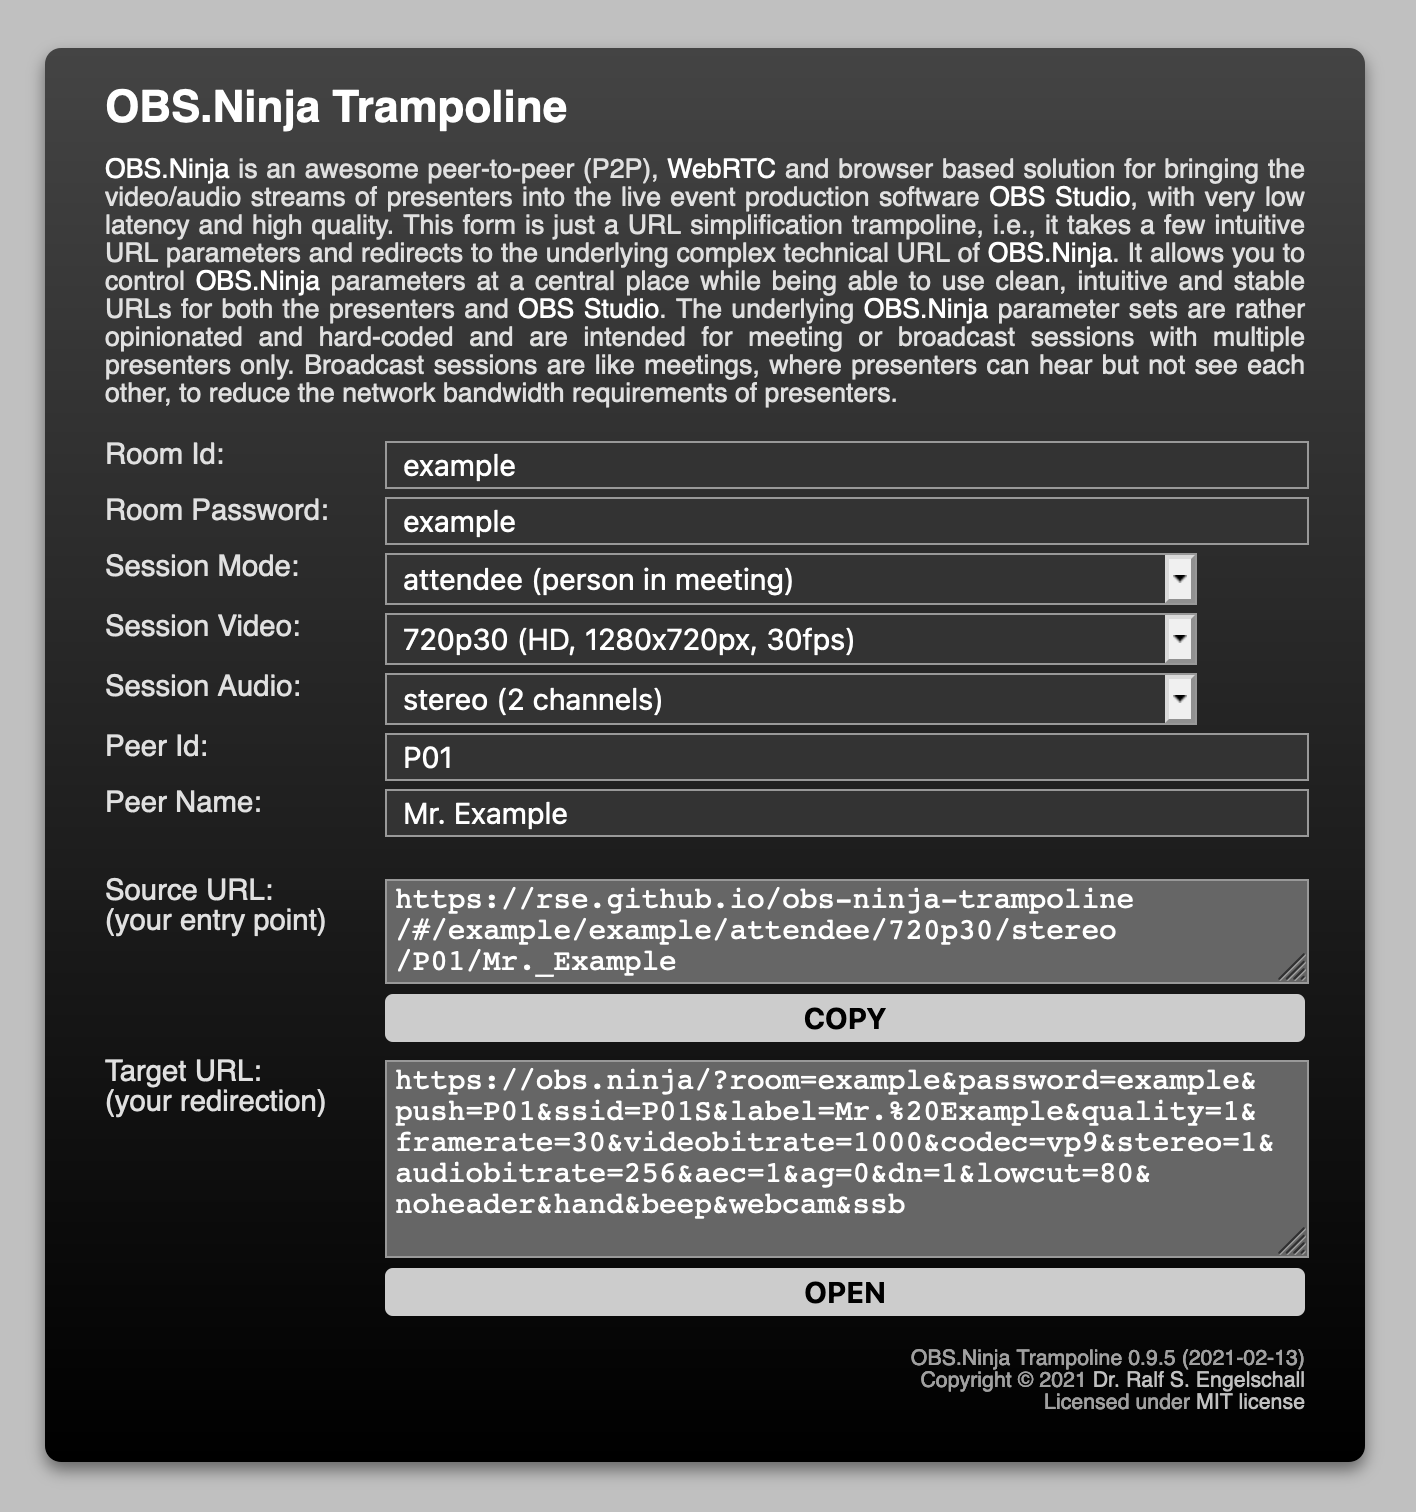
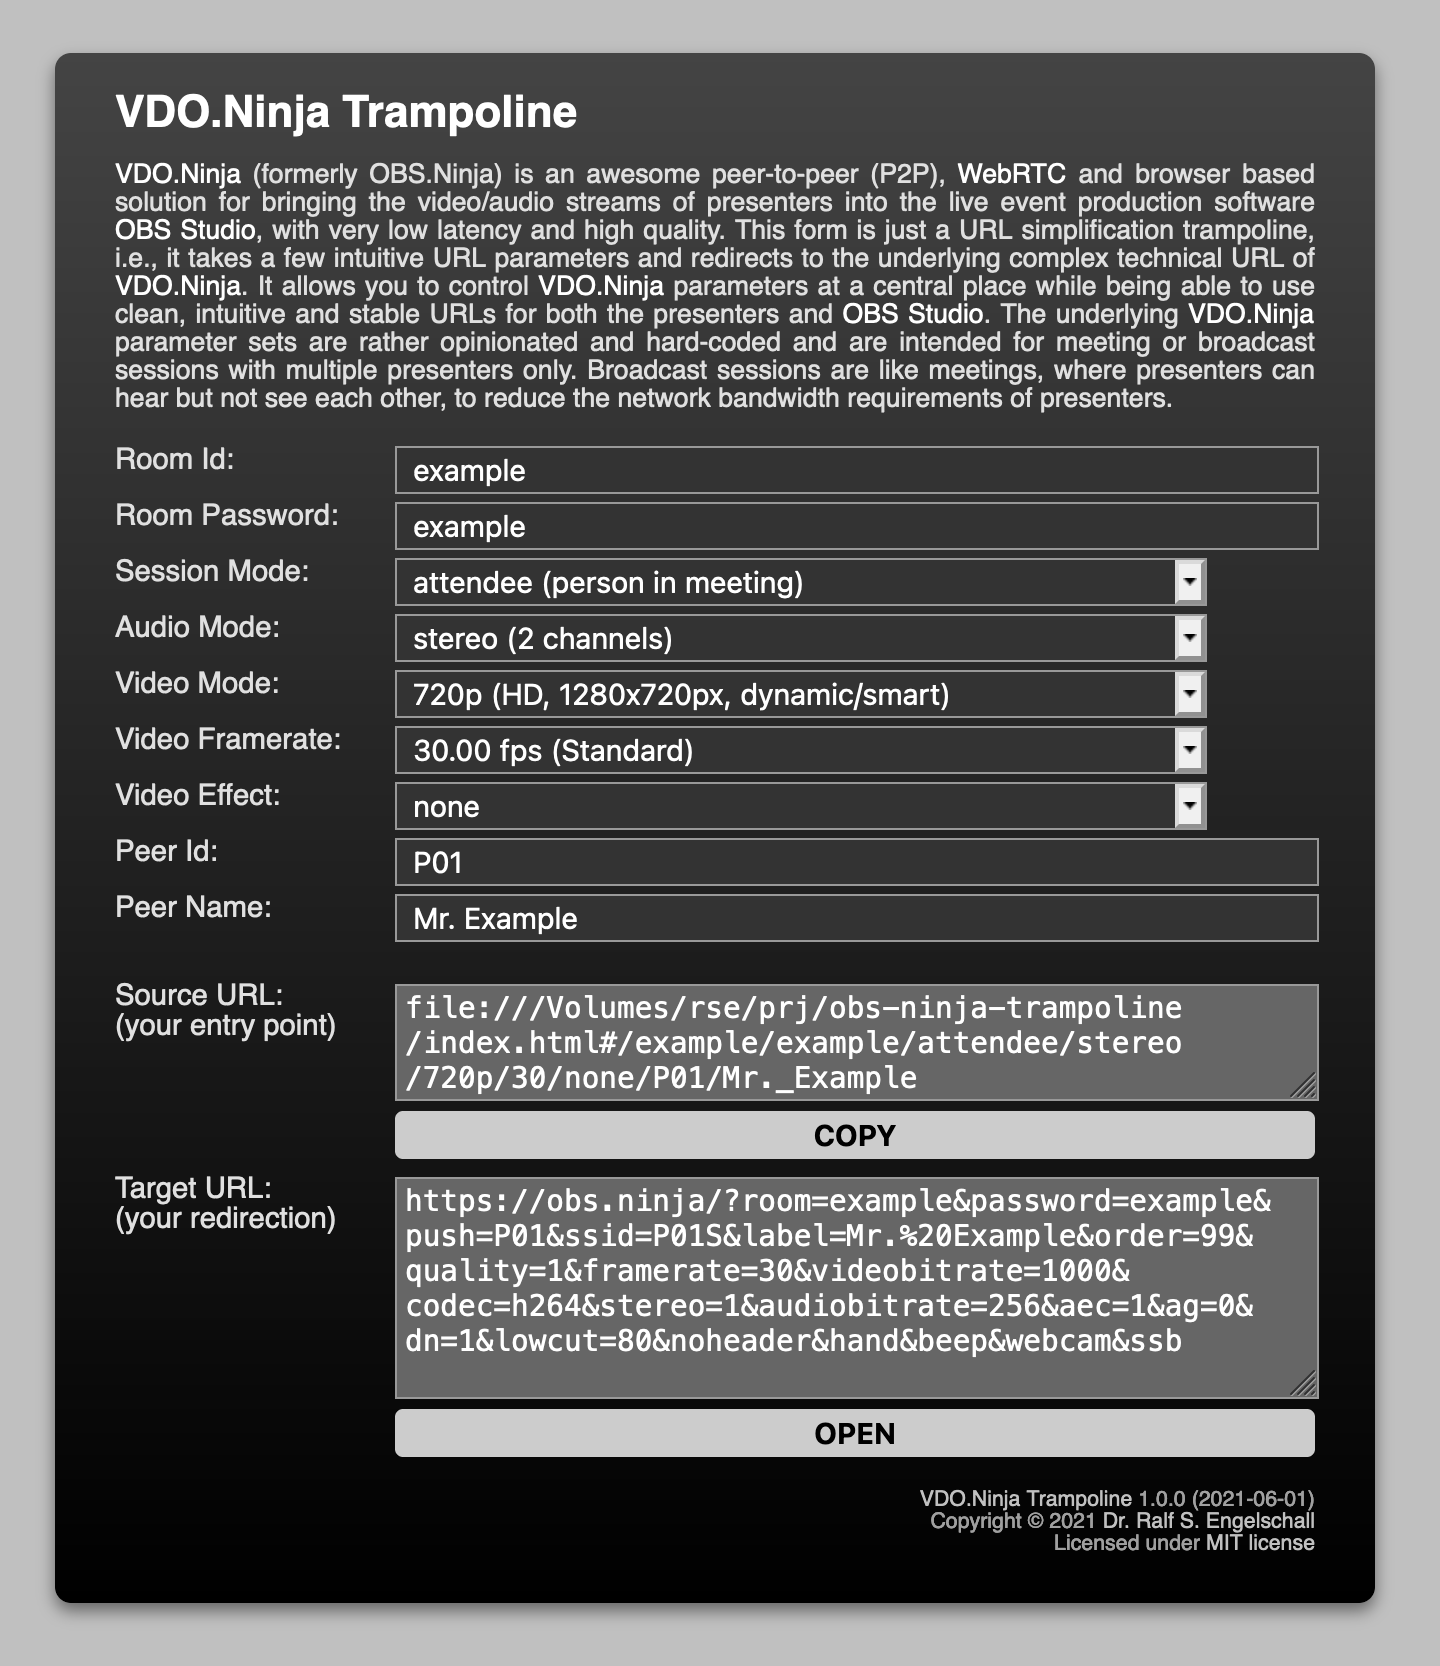
follow the VDO.Ninja rebranding

Changed region(s): [[0.0311, 0.0311, 0.9944, 0.9947]]

diff --git a/index.html b/index.html
@@ -1,14 +1,14 @@
 <!DOCTYPE html>
 <!--
 **
-**  OBS.Ninja Trampoline
+**  VDO.Ninja Trampoline
 **  Copyright (c) 2021 Dr. Ralf S. Engelschall <rse@engelschall.com>
 **  Licensed under MIT license <https://spdx.org/licenses/MIT.html>
 **
 -->
 <html>
     <head>
-        <title>OBS.Ninja Trampoline</title>
+        <title>VDO.Ninja Trampoline</title>
         <meta charset="UTF-8"/>
         <meta http-equiv="Cache-Control" content="no-cache, no-store, must-revalidate"/>
         <meta http-equiv="Pragma" content="no-cache">
@@ -157,24 +157,24 @@
         <div class="box">
             <!-- headline -->
             <div class="row">
-                <div class="title">OBS.Ninja Trampoline</div>
+                <div class="title">VDO.Ninja Trampoline</div>
             </div>
 
             <!-- description -->
             <div class="row">
                 <div class="desc">
-                    <a href="https://obs.ninja">OBS.Ninja</a> is an awesome peer-to-peer (P2P),
+                    <a href="https://obs.ninja">VDO.Ninja</a> (formerly OBS.Ninja) is an awesome peer-to-peer (P2P),
                     <a href="https://webrtc.org/">WebRTC</a> and browser based solution
                     for bringing the video/audio streams of presenters into the live event
                     production software <a href="https://obsproject.com">OBS Studio</a>,
                     with very low latency and high quality.
                     This form is just a URL simplification
                     trampoline, i.e., it takes a few intuitive URL parameters and redirects to the
-                    underlying complex technical URL of <a href="https://obs.ninja">OBS.Ninja</a>. It allows
-                    you to control <a href="https://obs.ninja">OBS.Ninja</a> parameters at a central
+                    underlying complex technical URL of <a href="https://obs.ninja">VDO.Ninja</a>. It allows
+                    you to control <a href="https://obs.ninja">VDO.Ninja</a> parameters at a central
                     place while being able to use clean, intuitive and stable URLs for both the
                     presenters and <a href="https://obsproject.com">OBS Studio</a>.
-                    The underlying <a href="https://obs.ninja">OBS.Ninja</a>
+                    The underlying <a href="https://obs.ninja">VDO.Ninja</a>
                     parameter sets are rather opinionated and hard-coded and are intended for
                     meeting or broadcast sessions with multiple presenters only. Broadcast sessions are
                     like meetings, where presenters can hear but not see each other,
@@ -310,7 +310,7 @@
             <!-- footer -->
             <div class="row">
                 <div class="foot">
-                    <a href="https://github.com/rse/obs-ninja-trampoline">OBS.Ninja Trampoline</a> 0.9.12 (2021-04-25)<br/>
+                    <a href="https://github.com/rse/vdo-ninja-trampoline">VDO.Ninja Trampoline</a> 1.0.0 (2021-06-01)<br/>
                     Copyright &copy; 2021 <a href="mailto:rse@engelschall.com">Dr. Ralf S. Engelschall</a><br/>
                     Licensed under <a href="https://spdx.org/licenses/MIT.html">MIT license</a>
                 </div>
@@ -322,11 +322,11 @@
         const isOBS    = !!window.obsstudio
         const isIOS    = !!window.navigator.userAgent.match(/(?:iPad|iPhone)/i)
         if (!(isChrome || isOBS || isIOS))
-            alert("ALERT: Sorry, Google Chrome or a Chromium-based browser is strongly recommended for OBS.Ninja. " +
+            alert("ALERT: Sorry, Google Chrome or a Chromium-based browser is strongly recommended for VDO.Ninja. " +
                 "Firefox, Safari or other browsers are not very well supported. " +
                 "Please start over with Google Chrome!")
         $(document).ready(() => {
-            /*  generate OBS.Ninja URL  */
+            /*  generate VDO.Ninja URL  */
             const makeURL = (room, pass, mode, audio, video, fps, effect, peer, name) => {
                 /*  determine audio quality  */
                 let st = 1

diff --git a/README.md b/README.md
@@ -1,11 +1,11 @@
 
-[OBS.Ninja Trampoline](https://rse.github.io/obs-ninja-trampoline/)
+[VDO.Ninja Trampoline](https://rse.github.io/vdo-ninja-trampoline/)
 ===================================================================
 
 About
 -----
 
-[OBS.Ninja](https://obs.ninja) is an awesome peer-to-peer (P2P),
+[VDO.Ninja](https://obs.ninja) is an awesome peer-to-peer (P2P),
 [WebRTC](https://webrtc.org/) and browser based solution for bringing
 the video/audio streams of presenters into the live event production
 software [OBS Studio](https://obsproject.com) with very low latency and
@@ -13,12 +13,12 @@ high quality.
 
 This form is just a URL simplification trampoline, i.e., it takes a
 few intuitive URL parameters and redirects to the underlying complex
-technical URL of [OBS.Ninja](https://obs.ninja). It allows you to
-control [OBS.Ninja](https://obs.ninja) parameters at a central place
+technical URL of [VDO.Ninja](https://obs.ninja). It allows you to
+control [VDO.Ninja](https://obs.ninja) parameters at a central place
 while being able to use clean, intuitive and stable URLs for both the
 presenters and [OBS Studio](https://obsproject.com).
 
-The underlying [OBS.Ninja](https://obs.ninja) parameter sets are rather
+The underlying [VDO.Ninja](https://obs.ninja) parameter sets are rather
 opinionated and hard-coded and are intended for meeting or broadcast
 sessions with multiple presenters only. Broadcast sessions are like
 meetings, where presenters can hear but not see each other, to reduce
@@ -27,22 +27,22 @@ the network bandwidth requirements of presenters.
 Sneak Preview
 -------------
 
-![OBS.Ninja Trampoline](screenshot.png)
+![VDO.Ninja Trampoline](screenshot.png)
 
 Usage
 -----
 
-Go to [OBS.Ninja Trampoline](https://rse.github.io/obs-ninja-trampoline/)
-(or your own website hosting OBS.Ninja Trampoline) and just use the form.
+Go to [VDO.Ninja Trampoline](https://rse.github.io/vdo-ninja-trampoline/)
+(or your own website hosting VDO.Ninja Trampoline) and just use the form.
 The form fields are:
 
 - **Room Id**:
   This is the room identifier, corresponding to the `room` parameter of
-  OBS.Ninja. It has to be globally unique.
+  VDO.Ninja. It has to be globally unique.
 
 - **Room Password**:
   This is the room password, corresponding to the `password` parameter of
-  OBS.Ninja. It protects access to your room.
+  VDO.Ninja. It protects access to your room.
 
 - **Session Mode**:
   This is the mode the peer is operating under:
@@ -76,35 +76,35 @@ The form fields are:
 
 - **Session Video**:
   This is the video mode the peer is operating under, mapped onto the
-  `quality` and`videobitrate` parameters of OBS.Ninja.
+  `quality` and`videobitrate` parameters of VDO.Ninja.
 
 - **Session Audio**:
   This is the audio mode the peer is operating under, mapped onto the
-  `stereo` and `audiobitrate` parameters of OBS.Ninja.
+  `stereo` and `audiobitrate` parameters of VDO.Ninja.
 
 - **Peer Id**:
   This is the peer identifier, corresponding to the `view` and `push`
-  parameters of OBS.Ninja. It has to be locally unique to the room identifier.
+  parameters of VDO.Ninja. It has to be locally unique to the room identifier.
 
 - **Peer Name**:
   This is the peer name, corresponding to the `label` parameter of
-  OBS.Ninja. It can be an arbitrary name, but should explain the peer.
+  VDO.Ninja. It can be an arbitrary name, but should explain the peer.
   It is displayed to the director only.
 
 - **Source URL**:
   This is your entry point.
-  Copy this URL for accesssing OBS.Ninja through the clean, intuitive
-  and stable parameters of OBS.Ninja Trampoline.
+  Copy this URL for accesssing VDO.Ninja through the clean, intuitive
+  and stable parameters of VDO.Ninja Trampoline.
 
 - **Target URL**:
   This is the redirection URL, based on the underlying complex parameters
-  of OBS.Ninja. This is shown just for comprehension purposes.
+  of VDO.Ninja. This is shown just for comprehension purposes.
 
 Installation
 ------------
 
 There is no installation needed if you are using the Github URL
-https://rse.github.io/obs-ninja-trampoline/. If you want to
+https://rse.github.io/vdo-ninja-trampoline/. If you want to
 use a different URL then copy the files [index.html](index.html)
 and [jquery.js](jquery.js) to your own website.
 
